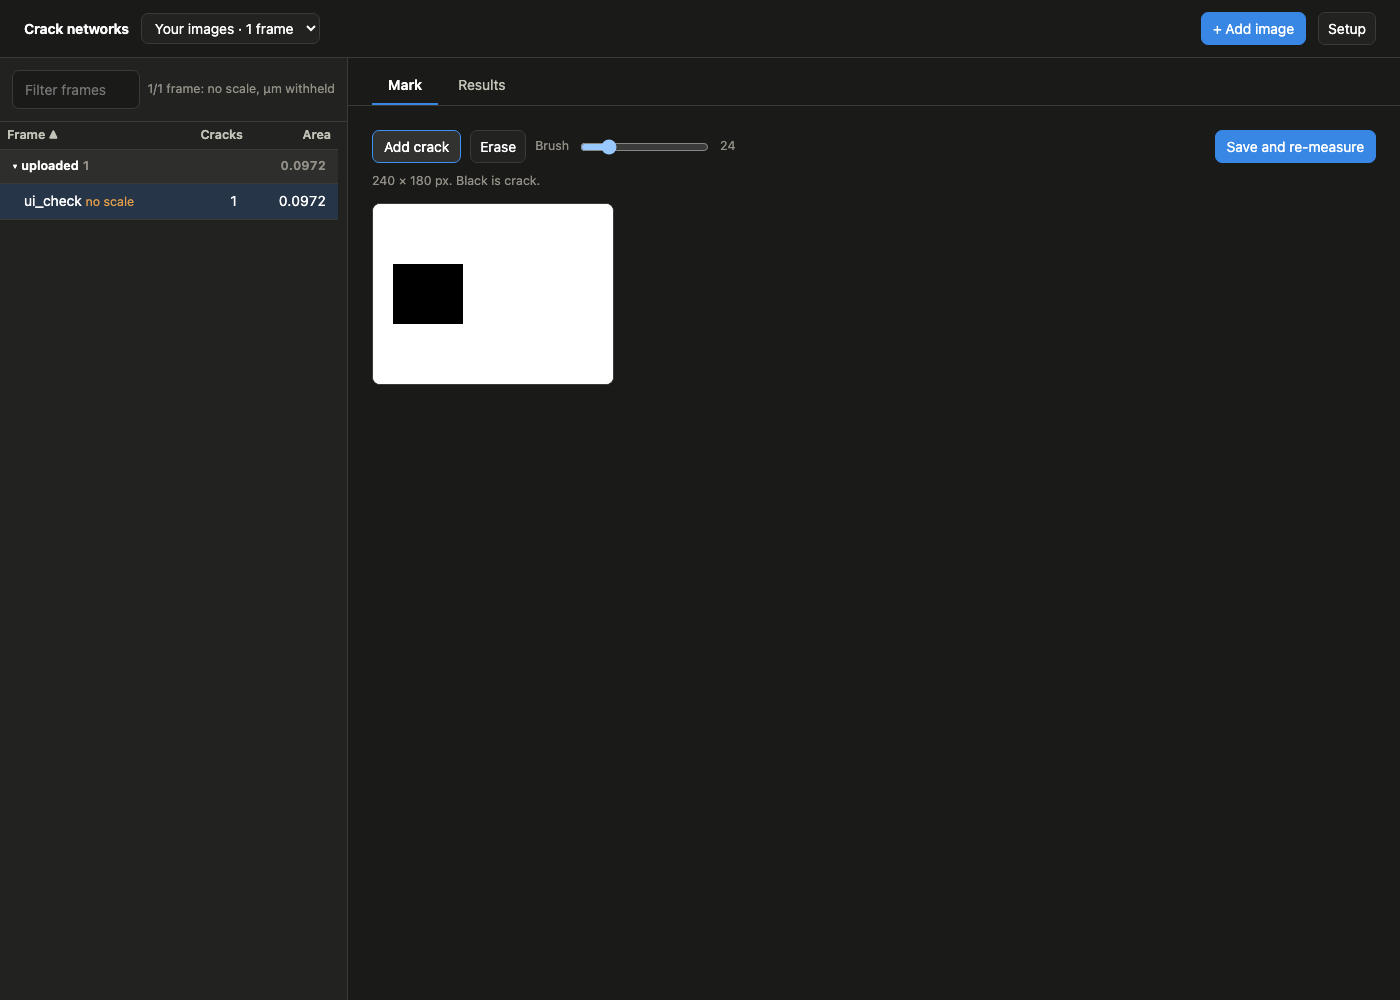
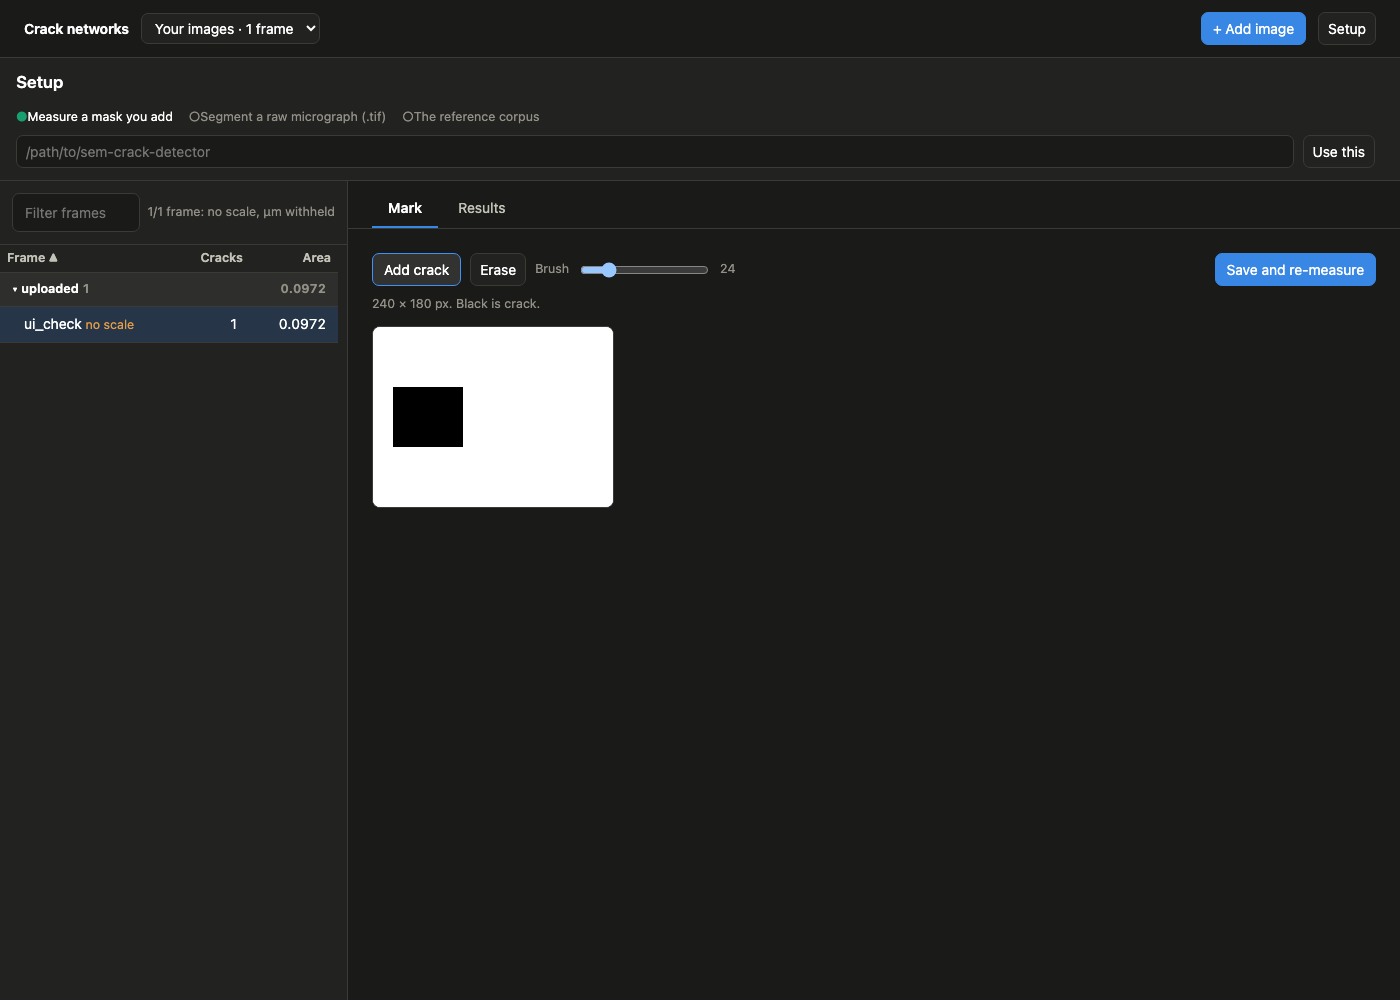
Do not probe a marking tool the app already knows is not running
The new UI check failed on all three runners with a 503, on its first run. That is the
check working: /mark/api/images is answered 503 by the proxy when nothing is behind it,
and renderMark awaited markImages() before the paint.running test could short-circuit it
-- so every visit to the Mark tab in a copy with no SEM repo logged a console error for a
question answered one line above. Every downloaded copy is such a copy.

WHY IT NEVER SHOWED LOCALLY, which is the more useful half. app/paths.py falls back to the
repo's data/sem dev symlink when nothing is configured, so a fresh FRACTOGRAPHY_DATA on
this machine still resolves a SEM repo and still finds the tool running. The packaged app
has no symlink: running dist/ with a fresh data dir reports sem_repo null, which is
exactly the runner's state, and reproduces it in one command. That is the way to test this
class of thing here, and I had been testing the dev server instead.

Fixed, then verified under the reproduced condition rather than the convenient one.

diff --git a/app/static/app.js b/app/static/app.js
@@ -1430,7 +1430,14 @@ async function renderMark() {
   const tool = $("#marktool"), edit = $("#markedit");
   const paint = await api("/api/paint").catch(() => ({ available: false, why_not: "unreachable" }));
 
-  const canUseTool = toolCanOpen(paint.running, state.frame, await markImages(), state.arm);
+  // DO NOT ASK A TOOL THAT IS NOT RUNNING. markImages() fetches /mark/api/images, which
+  // the proxy answers 503 when there is nothing behind it -- so every visit to Mark in a
+  // copy with no SEM repo (which is every downloaded copy, and all three CI runners)
+  // logged a console error for a question the app had already answered one line above.
+  // It never showed here because the tool is running on this machine. Found by the UI
+  // check counting page errors, which is the reason it counts them.
+  const canUseTool = paint.running
+    && toolCanOpen(true, state.frame, await markImages(), state.arm);
 
   if (canUseTool) {
     const fr = $("#markframe");
@@ -1468,6 +1475,8 @@ async function renderMark() {
   //: SEM originals, so it can only ever help a sem/* frame.
   const startable = paint.available && !paint.running
     && TOOL_ARMS.some((a) => state.arm === a || state.arm.startsWith(a + "/"));
+  // (startable deliberately does NOT consult markImages() either: see the note on
+  //  toolCanOpen. An image list can only come from a tool that is already up.)
   await openEditor(state.frame);
   // ONE BAR, NOT ONE PER VISIT. openEditor early-returns when the frame has not changed,
   // which is exactly what a Mark -> Results -> Mark round trip looks like, so an

diff --git a/tests/test_mark_tab.py b/tests/test_mark_tab.py
@@ -387,3 +387,19 @@ def test_the_opening_mode_falls_back_when_sem_is_absent():
     fn = fn[:fn.index("\n}")]
     assert "MODES.find" in fn, "the opening mode is not chosen from the mode list"
     assert "arms &&" in fn or "arms?." in fn, "an empty arms list would throw here"
+
+
+def test_the_image_list_is_not_fetched_when_no_tool_is_running():
+    """markImages() fetches /mark/api/images, which the proxy answers 503 with nothing
+    behind it -- so every visit to Mark in a copy with no SEM repo (every downloaded copy,
+    and all three CI runners) logged a console error for a question already answered by
+    paint.running one line above. It never appeared locally because the tool runs here."""
+    src = open(APPJS, encoding="utf-8").read()
+    rm = src[src.index("async function renderMark()"):src.index("async function syncMarkFrame()")]
+    code = code_only(rm)
+    i = code.index("canUseTool")
+    stmt = code[i:code.index(";", i)]
+    assert "paint.running" in stmt and "&&" in stmt, (
+        "markImages() is awaited before the running check short-circuits it")
+    assert stmt.index("paint.running") < stmt.index("markImages()"), (
+        "the running check must come first, or the fetch happens anyway")
